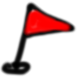
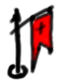
ヒットマーク

diff --git a/main.js b/main.js
@@ -52,11 +52,64 @@ const CardList = [
 
 
 const Bebel = 8
-const HeightBase = 220
-const WidthBase = -54
+const HeightBase = 100
+const WidthBase = -30
 let y = HeightBase
 let enemyY = -HeightBase
 let direction = 1
+
+class DamageMark {
+  constructor(scene, x, y) {
+    this.scene = scene
+    this.damage = scene.add.sprite(0, 0, 'damage')
+
+    this.sprite = scene.add.container(x, y, [
+      this.damage,
+    ])
+
+
+    /// this.sprite.setBlendMode(Phaser.BlendModes.SCREEN);
+
+    this.sprite.alpha = 0.8
+    this.sprite.visible = false
+
+  }
+
+  setDamage(damage) {
+    this.sprite.scale = 0
+    this.sprite.visible = true
+    // this.sprite.alpha = 0.5
+
+    const self = this;
+    this.scene.tweens.chain({
+      targets: this.sprite,
+      tweens: [
+        {
+          // x: x,
+          // y: y,
+          //angle: angle + 90 + Bebel,
+          ease: 'power1',
+          scale: 2.0,
+          duration: 100,
+        },
+        {
+          // x: x,
+          // y: y,
+          //angle: angle + Bebel,
+          ease: 'power1',
+          //alpha: 0,
+          duration: 150,
+        },
+      ],
+      onComplete: ()=> {
+        console.log('dm: OK!')
+        self.sprite.visible = false
+      },
+    })
+    //
+  }
+
+}
 
 class Card {
   constructor(scene, parent, cardInfo, x, y, cardDirection) {
@@ -79,20 +132,21 @@ class Card {
     this.cardInfo = cardInfo
   }
 
-  enterTo(x, y) {
+  enterTo(x, y, turnPlayer) {
 
+    const angle = turnPlayer * 180
     this.scene.tweens.chain({
       targets: this.card,
       tweens: [
         {
           x: x,
           y: y,
-          angle: 270 + Bebel,
+          angle: angle + 90 + Bebel,
           scale: 0.3,
           duration: 300,
         },
         {
-          angle: 180 + Bebel,
+          angle: angle + Bebel,
           x: x,
           y: y,
           ease: 'power1',
@@ -101,7 +155,7 @@ class Card {
         {
           x: x,
           y: y,
-          angle: 180 + Bebel,
+          angle: angle + Bebel,
           scale: 1.0,
           duration: 200,
         },
@@ -124,7 +178,7 @@ class Card {
           delay: stackCount * 40,
           // angle: '-=8',
           // angle: 180 * (turnPlayer) + 9,
-          x: 0 + stackCount * 8,
+          x: 0 - stackCount * 8,
           y: 0, //enemyY,
           scale: 1.0,
           duration: 100,
@@ -132,15 +186,15 @@ class Card {
         },
         {
           // angle: 180 * (turnPlayer) + 9,
-          x: x + stackCount * 8,
+          x: x - stackCount * 8,
           scale: 1.2,
           y: this.card.y,
           ease: 'power1',
           duration: 300,
         },
         {
-          x: x + stackCount * 8,
-          y: y + stackCount * 8,
+          x: x - stackCount * 8,
+          y: y - stackCount * 8,
           // angle: '+=8',
           scale: 1.0,
           duration: 200,
@@ -298,7 +352,7 @@ const SetupPhase = {
 
     player.diffenceCard = card
 
-    card.enterTo(0, 0)
+    card.enterTo(-WidthBase, enemyY, 1 - turnPlayer)
 
     onEnd();
   },
@@ -360,12 +414,15 @@ const AttackPhase = {
           })
 
 
+          scene.damageMark.setDamage(1)
+
+
           if (total >= enemyCard.cardInfo.p) {
             enemyCard.damaged(() => {
               console.log('かった！'  + turnPlayer, DuelInfo.player[turnPlayer].attackCards)
 
               DuelInfo.player[turnPlayer].attackCards.forEach((c) => {
-                c.enterTo(0, 0)
+                //c.enterTo(0, 0, turnPlayer)
                 c.angle = Bebel + (180 * turnPlayer)
 
                 // console.log(c.card)
@@ -507,6 +564,7 @@ const scene = {
     this.load.image('cat', 'assets/cat.png');
     this.load.image('sky', 'assets/sky2.png');
     this.load.image('modal', 'assets/modal.png');
+    this.load.image('damage', 'assets/damage.png');
     // this.load.spritesheet('dude',
     //   'assets/dude.png',
     //   { frameWidth: 32, frameHeight: 48 }
@@ -530,8 +588,10 @@ const scene = {
 
 
     const flag = new Flag(scene, 480, 170)
-    this.cardBoard = scene.add.container(400, 300, [])
+    this.cardBoard = scene.add.container(400, 280, [])
     DuelInfo.cardBoard = this.cardBoard
+
+    this.damageMark = new DamageMark(scene, 400, 280)
 
     SetupPhase.enter(this, this.cardBoard, DuelInfo, () => {
       //
